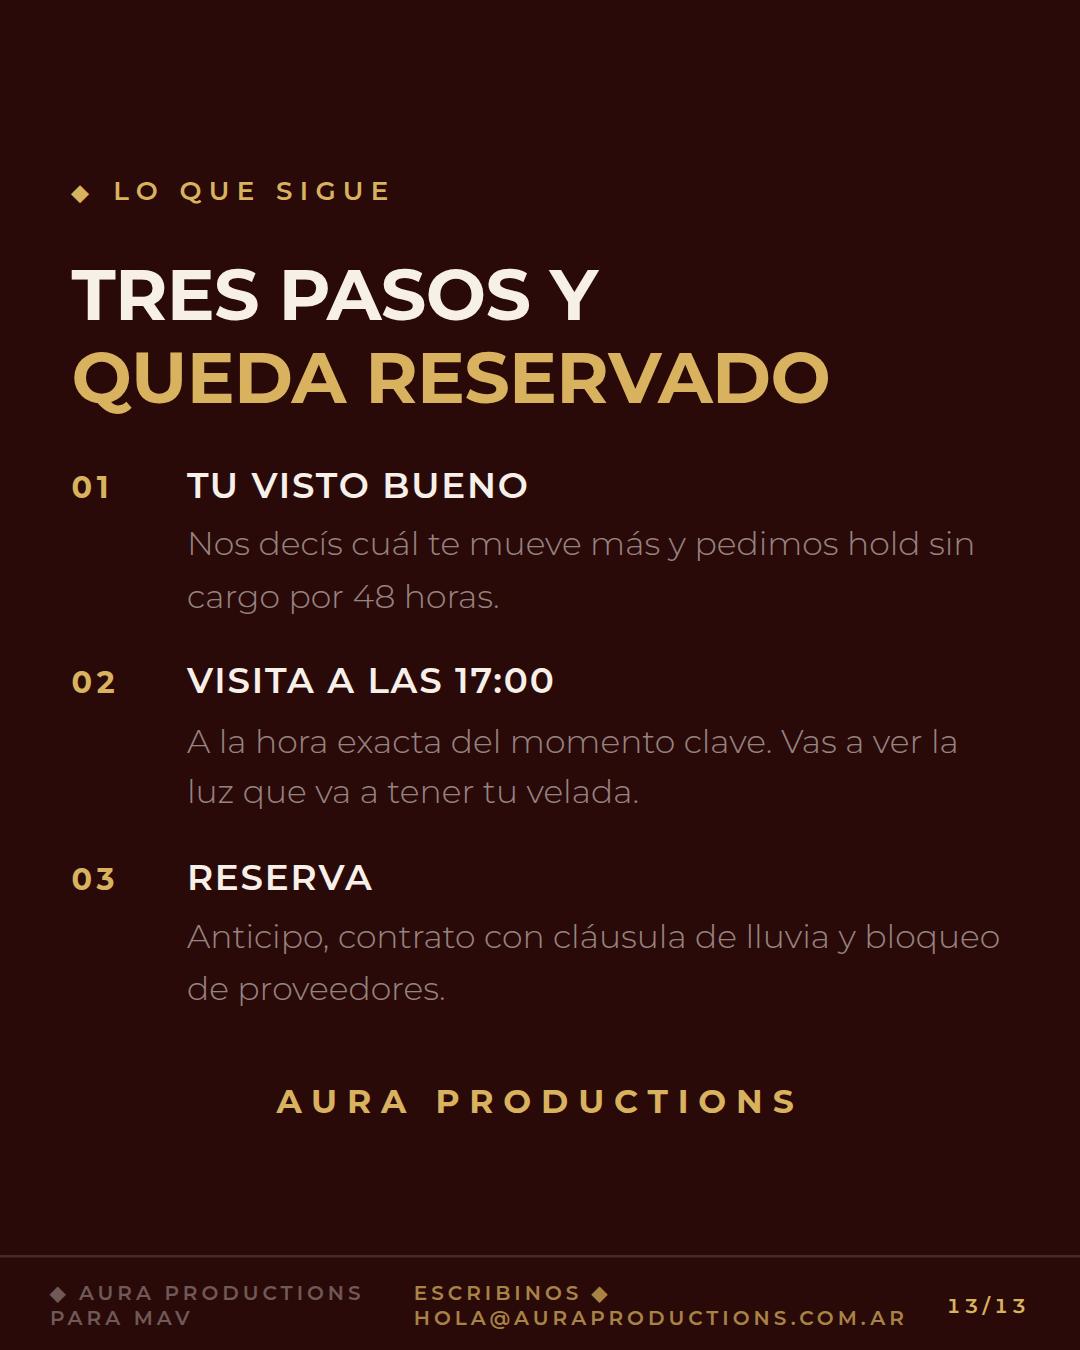
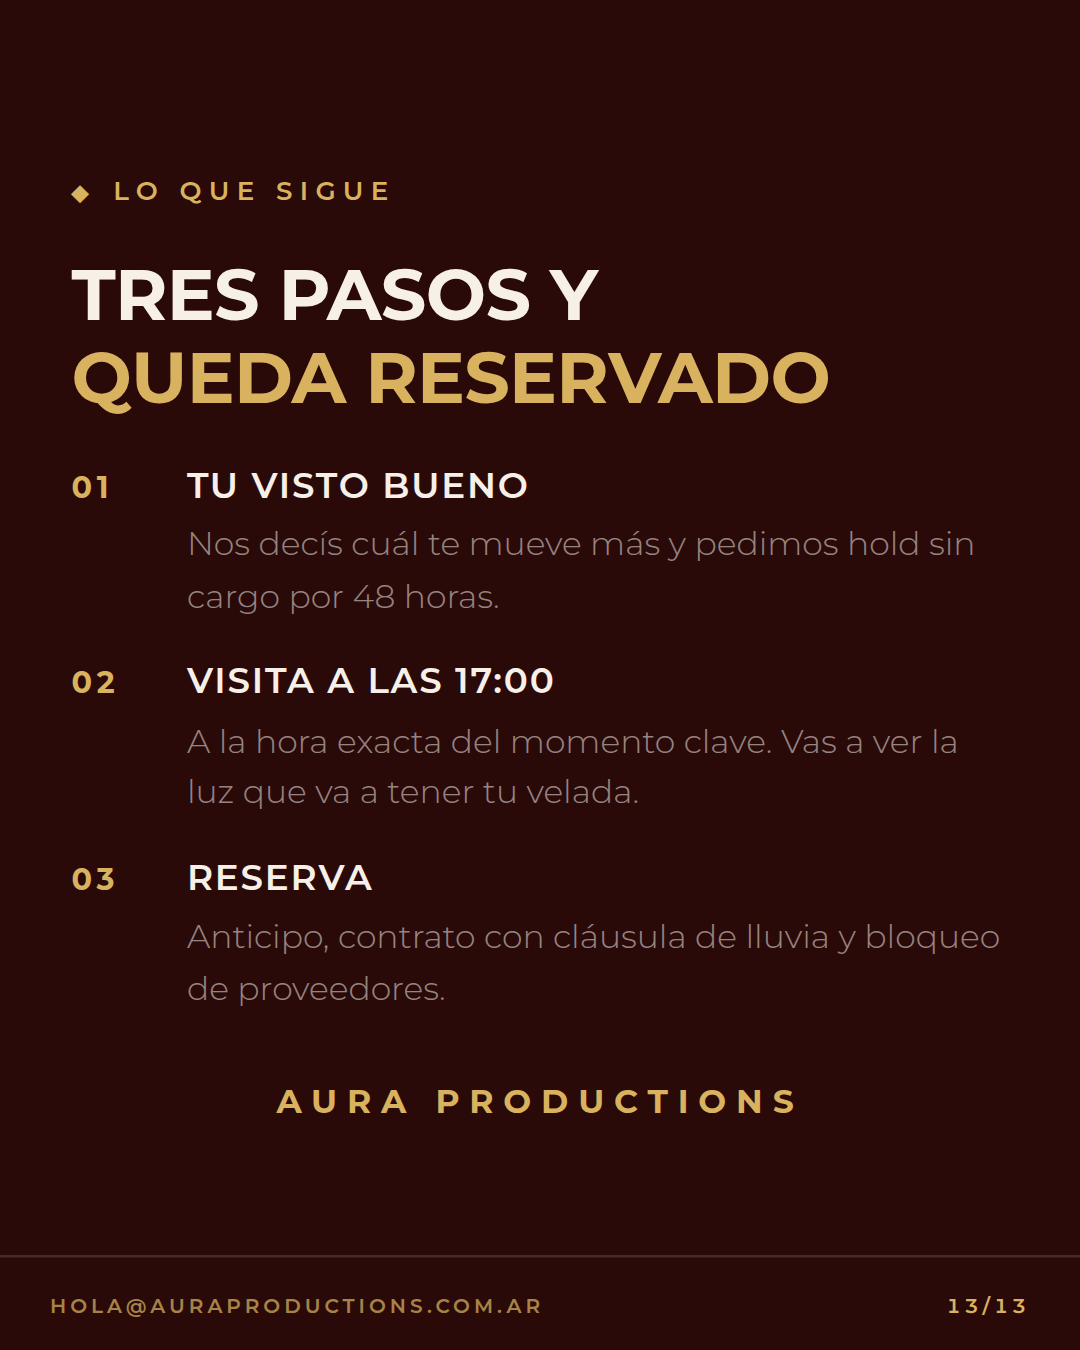
Agregar el corte público de 5 cards
Versión apta para feed abierto: portada, el dato de las 17:50, la frase,
el guion de las cuatro horas y el cierre con firma. Sin tarifas, sin
presupuesto, sin el porcentaje de dirección, sin nombres de las
locaciones en negociación y sin capacidades técnicas.

Dice "Octubre 2026" en lugar del día exacto: anunciar la fecha puntual
antes de tener la locación reservada la deja expuesta a moverse.

También se corrige el pie de la última card de ambos sets, que se partía
en dos líneas por el largo del correo de contacto. Ahora el pie no
envuelve nunca y en la card final se omite la marca de la izquierda, que
ya aparece en grande sobre la propia card.

Claude-Session: https://claude.ai/code/session_01GYpukWA3k5ZCfL16Xb3qT1

Changed region(s): [[0.3361, 0.9333, 0.7944, 0.9956], [0.0306, 0.9333, 0.3361, 0.9956]]

diff --git a/docs/propuestas/hora-dorada-publico.html b/docs/propuestas/hora-dorada-publico.html
@@ -1,0 +1,228 @@
+<title>Cuatro Horas Una Luz</title>
+<link rel="preconnect" href="https://fonts.googleapis.com">
+<style>
+
+  :root{
+    --wine:#501817; --wine-2:#5C1A1B; --wine-deep:#3A0F0E; --wine-ink:#2A0A09;
+    --gold:#D9B25F; --gold-soft:#EBD3A0; --gold-line:rgba(217,178,95,0.32);
+    --ivory:#F7F0E9; --soft:rgba(247,240,233,0.76); --muted:rgba(247,240,233,0.54);
+    --faint:rgba(247,240,233,0.34); --hair:rgba(247,240,233,0.14);
+    --sans:'Montserrat','Helvetica Neue',Arial,sans-serif;
+  }
+  *{box-sizing:border-box;}
+  body{
+    background:var(--wine-ink); color:var(--ivory); font-family:var(--sans);
+    font-weight:300; -webkit-font-smoothing:antialiased;
+    display:flex; flex-direction:column; align-items:center;
+    padding:16px 12px 22px; min-height:100vh; gap:14px;
+  }
+  p{margin:0;} h1,h2,h3,h4{margin:0; font-weight:700; text-wrap:balance;}
+
+  .frame{
+    width:100%; max-width:430px; display:flex; flex-direction:column; gap:12px;
+  }
+  .bars{display:flex; gap:4px;}
+  .bars i{
+    flex:1; height:3px; background:var(--hair); border-radius:2px; overflow:hidden;
+  }
+  .bars i.on{background:var(--gold);}
+
+  .stage{
+    position:relative; width:100%; height:min(78vh,720px); min-height:470px;
+    overflow:hidden; border:1px solid var(--gold-line); background:var(--wine);
+  }
+  .track{display:flex; height:100%; transition:transform .42s cubic-bezier(.22,.7,.3,1);}
+  @media (prefers-reduced-motion:reduce){ .track{transition:none;} }
+  .slide{flex:0 0 100%; height:100%; overflow-y:auto; overscroll-behavior:contain;}
+  .pad{
+    min-height:100%; padding:34px 26px 30px;
+    display:flex; flex-direction:column; justify-content:center; gap:16px;
+  }
+  .slide.deep{background:var(--wine-deep);}
+  .slide.ink{background:var(--wine-ink);}
+
+  .tag{
+    font-size:9.5px; font-weight:600; letter-spacing:.28em; text-transform:uppercase;
+    color:var(--gold); display:flex; align-items:center; gap:9px;
+  }
+  .tag::before{content:"◆"; font-size:8px; letter-spacing:0;}
+  h2{font-size:26px; line-height:1.16; text-transform:uppercase; letter-spacing:-.01em;}
+  h2 em{font-style:normal; color:var(--gold);}
+  .body{font-size:14px; line-height:1.72; color:var(--soft); display:flex; flex-direction:column; gap:12px;}
+  .body b{color:var(--gold-soft); font-weight:600;}
+  .small{font-size:12px; line-height:1.6; color:var(--faint);}
+
+  .big{
+    font-size:64px; font-weight:700; color:var(--gold); line-height:.94;
+    letter-spacing:-.03em; font-variant-numeric:tabular-nums;
+  }
+  .big small{display:block; font-size:12px; font-weight:600; letter-spacing:.22em;
+    text-transform:uppercase; color:var(--muted); margin-top:12px;}
+
+  .cover{text-align:center; gap:20px;}
+  .cover .kick{font-size:10px; font-weight:600; letter-spacing:.3em; text-transform:uppercase; color:var(--gold);}
+  .cover h1{font-size:44px; line-height:1.04; text-transform:uppercase; letter-spacing:-.02em;}
+  .cover h1 span{display:block; color:var(--gold);}
+  .cover .rule{width:38px; height:2px; background:var(--gold); margin:2px auto;}
+  .cover .meta{font-size:11px; font-weight:600; letter-spacing:.18em; text-transform:uppercase; color:var(--gold-soft); line-height:2;}
+
+  .quote{
+    font-size:25px; font-weight:600; line-height:1.36; text-transform:uppercase;
+    color:var(--gold-soft); text-align:center;
+  }
+
+  .rows{display:flex; flex-direction:column; border-top:1px solid var(--hair);}
+  .rows > div{display:flex; gap:14px; padding:11px 0; border-bottom:1px solid var(--hair); align-items:baseline;}
+  .rows time{font-size:14px; font-weight:600; color:var(--gold); font-variant-numeric:tabular-nums; min-width:50px;}
+  .rows p{font-size:12.5px; color:var(--soft); line-height:1.5;}
+  .rows > div.key{background:linear-gradient(90deg,rgba(217,178,95,.16),rgba(217,178,95,0)); padding-left:10px; margin-left:-10px;}
+  .rows > div.key time{color:var(--gold-soft);}
+  .rows > div.key p{color:var(--gold-soft); font-weight:500;}
+
+  .price{border:1px solid var(--gold-line); background:var(--wine-2); padding:16px 18px;}
+  .price .amt{font-size:30px; font-weight:700; color:var(--gold); line-height:1; letter-spacing:-.015em;}
+  .price .cur{font-size:9.5px; font-weight:600; letter-spacing:.2em; text-transform:uppercase; color:var(--muted); margin-top:9px;}
+  .price .per{margin-top:12px; padding-top:11px; border-top:1px solid var(--hair); font-size:12px; color:var(--muted); line-height:1.55;}
+  .price .per b{color:var(--ivory); font-weight:600;}
+
+  ul.pts{margin:0; padding:0; list-style:none; display:flex; flex-direction:column; gap:8px;}
+  ul.pts li{font-size:12.5px; color:var(--soft); padding-left:16px; position:relative; line-height:1.5;}
+  ul.pts li::before{content:"◆"; position:absolute; left:0; top:0; font-size:6.5px; color:var(--gold); line-height:2.6;}
+  ul.pts.off li{color:var(--muted);}
+  ul.pts.off li::before{color:var(--faint);}
+
+  .grid3{display:flex; flex-direction:column; gap:1px; background:var(--hair); border:1px solid var(--hair);}
+  .grid3 > div{background:var(--wine); padding:13px 15px;}
+  .slide.deep .grid3 > div{background:var(--wine-deep);}
+  .grid3 h4{font-size:12px; font-weight:600; text-transform:uppercase; letter-spacing:.06em; color:var(--gold-soft); margin-bottom:4px;}
+  .grid3 p{font-size:11.5px; color:var(--muted); line-height:1.5;}
+
+  .total{border:1px solid var(--gold-line);}
+  .total .l{display:flex; justify-content:space-between; gap:12px; padding:11px 15px; background:var(--wine-2); border-bottom:1px solid var(--hair);}
+  .total .l span:first-child{font-size:11.5px; color:var(--muted);}
+  .total .l span:last-child{font-size:11.5px; color:var(--soft); font-variant-numeric:tabular-nums; text-align:right;}
+  .total .g{background:var(--wine-ink); padding:17px 15px; text-align:center;}
+  .total .g .k{font-size:9.5px; font-weight:600; letter-spacing:.24em; text-transform:uppercase; color:var(--gold);}
+  .total .g .v{font-size:20px; font-weight:700; color:var(--gold-soft); margin-top:8px; font-variant-numeric:tabular-nums;}
+  .total .p{background:rgba(217,178,95,.10); padding:12px 15px; display:flex; justify-content:space-between; gap:10px;}
+  .total .p span:first-child{font-size:9.5px; font-weight:600; letter-spacing:.2em; text-transform:uppercase; color:var(--muted);}
+  .total .p span:last-child{font-size:13px; font-weight:600; color:var(--ivory); font-variant-numeric:tabular-nums;}
+
+  .steps{display:flex; flex-direction:column; gap:14px;}
+  .steps > div{display:flex; gap:14px; align-items:baseline;}
+  .steps .n{font-size:11px; font-weight:700; letter-spacing:.16em; color:var(--gold); min-width:28px;}
+  .steps h4{font-size:13px; font-weight:600; text-transform:uppercase; letter-spacing:.05em; margin-bottom:4px;}
+  .steps p{font-size:12px; color:var(--muted); line-height:1.55;}
+
+  .sig{text-align:center; font-size:12px; font-weight:700; letter-spacing:.3em; text-transform:uppercase; color:var(--gold);}
+
+  .nav{display:flex; align-items:center; justify-content:space-between; gap:14px;}
+  .nav button{
+    font-family:var(--sans); font-size:10px; font-weight:600; letter-spacing:.18em;
+    text-transform:uppercase; color:var(--gold-soft); background:transparent;
+    border:1px solid var(--gold-line); padding:10px 16px; cursor:pointer;
+  }
+  .nav button:hover:not(:disabled){border-color:var(--gold); color:var(--gold);}
+  .nav button:disabled{opacity:.3; cursor:default;}
+  .nav .count{font-size:10px; font-weight:600; letter-spacing:.2em; color:var(--muted); font-variant-numeric:tabular-nums;}
+  .hint{text-align:center; font-size:9.5px; letter-spacing:.18em; text-transform:uppercase; color:var(--faint);}
+</style>
+
+<div class="frame">
+  <div class="bars" id="bars"></div>
+  <div class="stage">
+    <div class="track" id="track">
+
+      <div class="slide ink"><div class="pad cover">
+        <p class="kick">Aura Productions ◆ para MAV</p>
+        <h1>Círculo <span>Íntimo</span></h1>
+        <div class="rule"></div>
+        <p class="body" style="text-align:center">Una velada privada para las 120 mujeres del círculo interno de Valentina Ortiz. Cuatro horas diseñadas alrededor de un solo momento.</p>
+        <p class="meta">Medellín ◆ Octubre 2026</p>
+      </div></div>
+
+      <div class="slide"><div class="pad">
+        <p class="tag">El dato que ordena todo</p>
+        <p class="big">17:50<small>Se pone el sol en Medellín</small></p>
+        <div class="body">
+          <p>La hora más hermosa del día —de <b>17:05 a 17:50</b>— cae exactamente en el centro de la velada.</p>
+          <p>No es un dato del clima: es el momento en que habla ella, en que se toman la foto que va a quedar, en que la sala entiende por qué está ahí.</p>
+        </div>
+      </div></div>
+
+      <div class="slide ink"><div class="pad">
+        <p class="quote">El lugar no tiene que impresionar. Tiene que hacer que ellas se sientan elegidas.</p>
+      </div></div>
+
+      <div class="slide deep"><div class="pad">
+        <p class="tag">El guion</p>
+        <h2>Cuatro horas, <em>un solo eje</em></h2>
+        <div class="rows">
+          <div><time>16:00</time><p>Llegada de a una. Sin fila: cada invitada recibe su nombre escrito a mano antes de entrar.</p></div>
+          <div class="key"><time>17:05</time><p>Se abren las puertas al jardín justo cuando entra la hora dorada. El momento más personal de la noche.</p></div>
+          <div><time>18:15</time><p>Mesa y conversación, armada para que se hable de a seis y no de a veinte.</p></div>
+          <div><time>20:00</time><p>Fin. Salir cuando todavía se quiere seguir es parte del diseño.</p></div>
+        </div>
+      </div></div>
+
+      <div class="slide ink"><div class="pad cover">
+        <div class="rule"></div>
+        <h2 style="text-align:center">Cuatro horas.<br>Ciento veinte mujeres.<br><em>Una sola luz.</em></h2>
+        <p class="body" style="text-align:center">No producimos eventos. Diseñamos el momento del que después se habla.</p>
+        <p class="sig" style="margin-top:6px">Aura Productions</p>
+        <p class="meta" style="font-size:9.5px">Experiencias que transforman vidas</p>
+      </div></div>
+
+    </div>
+  </div>
+  <div class="nav">
+    <button id="prev" type="button">← Anterior</button>
+    <span class="count" id="count">01 / 05</span>
+    <button id="next" type="button">Siguiente →</button>
+  </div>
+  <p class="hint">Versión pública ◆ sin cifras ni proveedores</p>
+</div>
+
+<script>
+(function(){
+  var track=document.getElementById('track');
+  var slides=track.querySelectorAll('.slide');
+  var n=slides.length, i=0;
+  var bars=document.getElementById('bars');
+  var count=document.getElementById('count');
+  var prev=document.getElementById('prev'), next=document.getElementById('next');
+
+  for(var k=0;k<n;k++){ bars.appendChild(document.createElement('i')); }
+  var segs=bars.querySelectorAll('i');
+  function pad(x){ return (x<10?'0':'')+x; }
+
+  function render(){
+    track.style.transform='translateX('+(-i*100)+'%)';
+    for(var k=0;k<n;k++){ segs[k].className = k<=i ? 'on' : ''; }
+    count.textContent=pad(i+1)+' / '+pad(n);
+    prev.disabled = i===0; next.disabled = i===n-1;
+    for(var k=0;k<n;k++){ slides[k].setAttribute('aria-hidden', k===i?'false':'true'); }
+  }
+  function go(d){ var t=i+d; if(t<0||t>n-1) return; i=t; render(); }
+
+  prev.addEventListener('click',function(){go(-1);});
+  next.addEventListener('click',function(){go(1);});
+  document.addEventListener('keydown',function(e){
+    if(e.key==='ArrowRight') go(1);
+    if(e.key==='ArrowLeft') go(-1);
+  });
+
+  var x0=null,y0=null;
+  track.addEventListener('touchstart',function(e){
+    x0=e.changedTouches[0].clientX; y0=e.changedTouches[0].clientY;
+  },{passive:true});
+  track.addEventListener('touchend',function(e){
+    if(x0===null) return;
+    var dx=e.changedTouches[0].clientX-x0, dy=e.changedTouches[0].clientY-y0;
+    if(Math.abs(dx)>44 && Math.abs(dx)>Math.abs(dy)) go(dx<0?1:-1);
+    x0=null; y0=null;
+  },{passive:true});
+
+  render();
+})();
+</script>

diff --git a/docs/propuestas/instagram-publico/README.md b/docs/propuestas/instagram-publico/README.md
@@ -1,0 +1,26 @@
+# Carrusel público — 5 cards
+
+Formato 1080 × 1350 px (4:5). Generadas desde
+`docs/propuestas/hora-dorada-publico.html`.
+
+| # | Card |
+|---|---|
+| 01 | Portada |
+| 02 | El dato: 17:50, se pone el sol |
+| 03 | La frase |
+| 04 | El guion: cuatro horas, un solo eje |
+| 05 | Cierre y firma |
+
+## Qué se sacó respecto del carrusel de 13
+
+Este corte es apto para feed abierto. No lleva:
+
+- tarifas de locación ni de proveedores
+- el presupuesto integral ni el valor por invitada
+- el porcentaje de dirección de Aura
+- nombres de las locaciones en negociación
+- capacidades, inclusiones y condiciones técnicas
+
+Tampoco lleva la fecha exacta: dice "Octubre 2026". Conviene publicar el
+día puntual recién cuando la locación esté reservada, para no anunciar
+una fecha que todavía puede moverse.
